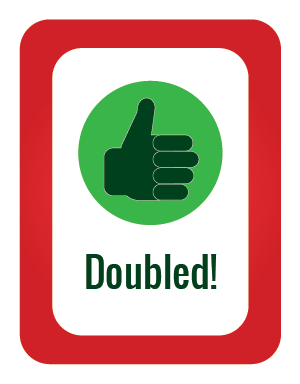
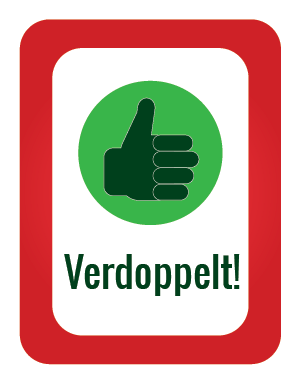
Production slot machine, Patient 0

Changed region(s): [[0.21, 0.6562, 0.81, 0.7812]]

diff --git a/cstcg_slot_functions.py b/cstcg_slot_functions.py
@@ -48,22 +48,22 @@ multiplier = [2,3,4,5,6,7,8,9,10]
 
 # Load instructions
 instructions = {}
-instructions['1'] = pygame.image.load('./images/Slide01.png').convert_alpha()
-instructions['2'] = pygame.image.load('./images/Slide02.png').convert_alpha()
-instructions['3'] = pygame.image.load('./images/Slide03.png').convert_alpha()
-instructions['4'] = pygame.image.load('./images/Slide04.png').convert_alpha()
-instructions['5'] = pygame.image.load('./images/Slide05.png').convert_alpha()
-instructions['6'] = pygame.image.load('./images/Slide06.png').convert_alpha()
-instructions['7'] = pygame.image.load('./images/Slide07.png').convert_alpha()
-instructions['8'] = pygame.image.load('./images/Slide08.png').convert_alpha()
-instructions['9'] = pygame.image.load('./images/Slide09.png').convert_alpha()
-instructions['10'] = pygame.image.load('./images/Slide10.png').convert_alpha()
-instructions['11'] = pygame.image.load('./images/Slide11.png').convert_alpha()
-instructions['12'] = pygame.image.load('./images/Slide12.png').convert_alpha()
-instructions['13'] = pygame.image.load('./images/Slide13.png').convert_alpha()
-instructions['14'] = pygame.image.load('./images/Slide14.png').convert_alpha()
-instructions['15'] = pygame.image.load('./images/Slide15.png').convert_alpha()
-instructions['16'] = pygame.image.load('./images/Slide16.png').convert_alpha()
+instructions['1'] = pygame.image.load('./instructions/Slide01.png').convert_alpha()
+instructions['2'] = pygame.image.load('./instructions/Slide02.png').convert_alpha()
+instructions['3'] = pygame.image.load('./instructions/Slide03.png').convert_alpha()
+instructions['4'] = pygame.image.load('./instructions/Slide04.png').convert_alpha()
+instructions['5'] = pygame.image.load('./instructions/Slide05.png').convert_alpha()
+instructions['6'] = pygame.image.load('./instructions/Slide06.png').convert_alpha()
+instructions['7'] = pygame.image.load('./instructions/Slide07.png').convert_alpha()
+instructions['8'] = pygame.image.load('./instructions/Slide08.png').convert_alpha()
+instructions['9'] = pygame.image.load('./instructions/Slide09.png').convert_alpha()
+instructions['10'] = pygame.image.load('./instructions/Slide10.png').convert_alpha()
+instructions['11'] = pygame.image.load('./instructions/Slide11.png').convert_alpha()
+instructions['12'] = pygame.image.load('./instructions/Slide12.png').convert_alpha()
+instructions['13'] = pygame.image.load('./instructions/Slide13.png').convert_alpha()
+instructions['14'] = pygame.image.load('./instructions/Slide14.png').convert_alpha()
+instructions['15'] = pygame.image.load('./instructions/Slide15.png').convert_alpha()
+instructions['16'] = pygame.image.load('./instructions/Slide16.png').convert_alpha()
 
 # Load symbols
 symbols = {}
@@ -173,16 +173,16 @@ def process_rtb(positions,index, stage, hold_on):
     return events
 
 def selector(c,task,positions,index,selector_pos):
-    sel_positions=[(100,445), # loss
-               (8,530), # orange
-               (8,608), # grape 
-               (8,679), # cherry 
-               (8,755), # lemon 
+    sel_positions=[(90,430), # loss
+               (8,500), # orange
+               (8,580), # grape 
+               (8,650), # cherry 
+               (8,730), # lemon 
                (8,800), # plum
-               (180,530), # bar 
-               (180,600), # bell 
-               (180,682), # watermelon
-               (180,755), # seven
+               (180,500), # bar 
+               (180,580), # bell 
+               (180,650),#watermelon
+               (180,730),#seven
                (180,800)] # jackpot
 
     pos = sel_positions[selector_pos-1]
@@ -317,7 +317,7 @@ def display_assets(c,positions,sizes,task):
     if task['currency'] == 'AUD':
         account_banner = c.header.render("Account (AUD)",True,GOLD) 
     elif task['currency'] == 'points':
-        account_banner = c.header.render("Account (points)",True,GOLD) 
+        account_banner = c.header.render("Kontostand (points)",True,GOLD) 
     c.screen.blit(account_banner, (positions['scoreboard_x'] + 10,positions['account_screen_y'] + 10))
     
     account_balance = money_font.render(str(task['account'][task['trial']]), True, RED)
@@ -358,7 +358,7 @@ def make_buttons(c,positions,sizes,task,trial_stage):
         caption="-", fgcolor=c.background_color, bgcolor=GRAY, font=big_button)
 
         buttons['pull'] = SlotButton(rect=(positions['pull_x'],positions['pull_y'], sizes['mbw'],sizes['bbh']),\
-        caption="Spin", fgcolor=c.background_color, bgcolor=GRAY, font=c.header)
+        caption="Drehen", fgcolor=c.background_color, bgcolor=GRAY, font=c.header)
 
 
         if task['wheel_hold_buttons']:
@@ -379,7 +379,7 @@ def make_buttons(c,positions,sizes,task,trial_stage):
         caption="-", fgcolor=c.background_color, bgcolor=GRAY, font=big_button)
 
         buttons['pull'] = SlotButton(rect=(positions['pull_x'],positions['pull_y'], sizes['mbw'],sizes['bbh']),\
-        caption="Spin", fgcolor=c.background_color, bgcolor=GRAY, font=c.header)
+        caption="Drehen", fgcolor=c.background_color, bgcolor=GRAY, font=c.header)
 
         if task['wheel_hold_buttons']:
             buttons['hold1'] = SlotButton(rect=(positions['hold1_x'],positions['hold_y'], sizes['sbw'],sizes['xsbh']),\
@@ -406,7 +406,7 @@ def make_buttons(c,positions,sizes,task,trial_stage):
         caption="-", fgcolor=c.background_color, bgcolor=GREEN, font=big_button)
 
         buttons['pull'] = SlotButton(rect=(positions['pull_x'],positions['pull_y'], sizes['mbw'],sizes['bbh']),\
-        caption="Spin", fgcolor=c.background_color, bgcolor=PURPLE, font=c.header)
+        caption="Drehen", fgcolor=c.background_color, bgcolor=PURPLE, font=c.header)
 
         if task['wheel_hold_buttons']:
             buttons['hold1'] = SlotButton(rect=(positions['hold1_x'],positions['hold_y'], sizes['sbw'],sizes['xsbh']),\
@@ -513,12 +513,12 @@ def welcome_screen(c, wait_time=3000):
 def instruction_screen(c,positions,sizes,RTB):
 
     back_button = SlotButton(rect=(positions['gamble_x'],positions['gamble_y'], sizes['bbw'],sizes['sbh']),\
-        caption="Back",  fgcolor=c.background_color, bgcolor=RED, font=c.button)
+        caption="Zurueck",  fgcolor=c.background_color, bgcolor=RED, font=c.button)
     next_button = SlotButton(rect=(positions['no_gamble_x'],positions['no_gamble_y'],sizes['bbw'],sizes['sbh']),\
-        caption="Next", fgcolor=c.background_color, bgcolor=GREEN, font=c.button)
+        caption="Weiter", fgcolor=c.background_color, bgcolor=GREEN, font=c.button)
 
     finish_button = SlotButton(rect=(positions['no_gamble_x'],positions['no_gamble_y'],sizes['bbw'],sizes['sbh']),\
-        caption="Finish", fgcolor=c.background_color, bgcolor=GREEN, font=c.button)
+        caption="Fertig", fgcolor=c.background_color, bgcolor=GREEN, font=c.button)
 
     counter = 1
     c.blank_screen()
@@ -562,20 +562,20 @@ def begin_training_screen(c):
     c.blank_screen()
     c.log('Training beginning at ' + repr(time.time()) + '\n')
 
-    c.text_screen('The next 20 trials are training trials. They will not count towards your final score.', font=c.header, font_color=GOLD, valign='center', y_displacement= -45, wait_time=4000) 
+    c.text_screen('Die naechsten 20 Spiele sind zum Ueben da. Die Punkte zaehlen nicht zu ihrem Endergebnis dazu.', font=c.header, font_color=GOLD, valign='center', y_displacement= -45, wait_time=4000) 
 
 def end_training_screen(c):
     waitfun(1000)
     c.log('Training end at ' + repr(time.time()) + '\n')
     c.blank_screen()
-    c.text_screen('Training is complete. The game will begin now! Good luck!', font=c.header, font_color=GOLD, valign='center', y_displacement= -45, wait_time=4000) 
+    c.text_screen('Das Training ist fertig. Das Spiel beginnt jetzt! Viel Glueck!', font=c.header, font_color=GOLD, valign='center', y_displacement= -45, wait_time=4000) 
 
 
 def change_machine_screen(c):
     waitfun(1000)
     c.log('Changing machines at ' + repr(time.time()) + '\n')
     c.blank_screen()
-    c.text_screen('Well done! Now onto a new machine!', font=c.header, font_color=GOLD, valign='center', y_displacement= -45, wait_time=4000) 
+    c.text_screen('Gut gemacht! Jetzt geht es weiter auf der naechsten Maschine!', font=c.header, font_color=GOLD, valign='center', y_displacement= -45, wait_time=4000) 
 
 
 def waitfun(milliseconds):
@@ -621,7 +621,7 @@ def win_screen(c,positions, buttons, sizes, task):
 def show_win_banner(c,positions,task,reward):
     c.screen.blit(win_banner,(positions['banner_x'],positions['banner_y'])) 
     winsound.play()
-    c.text_screen('You won ' + str(reward) + ' points!', font=c.title, valign='top', y_displacement= -45, wait_time=task['win_banner_interval'])
+    c.text_screen( str(reward) + ' points gewonnen!', font=c.title, valign='top', y_displacement= -45, wait_time=task['win_banner_interval'])
 
 
 def gamble(c,task, positions, sizes, RTB):
@@ -637,7 +637,7 @@ def gamble(c,task, positions, sizes, RTB):
     y_pos = c.center_y-card_back.get_height()/2
 
     c.blank_screen()
-    c.make_banner(c.title.render("Double or nothing?", True, GOLD))
+    c.make_banner(c.title.render("Doppelt oder nichts?", True, GOLD))
     c.screen.blit(card_back,(x_pos,y_pos))
 
     eeg_trigger(c,task,'gamble_screen')
@@ -647,7 +647,7 @@ def gamble(c,task, positions, sizes, RTB):
     gamble_button = SlotButton(rect=(positions['gamble_x'],positions['gamble_y'], sizes['bbw'],sizes['sbh']),\
         caption="Gamble",  fgcolor=c.background_color, bgcolor=RED, font=c.button)
     no_gamble_button = SlotButton(rect=(positions['no_gamble_x'],positions['no_gamble_y'],sizes['bbw'],sizes['sbh']),\
-        caption="No thanks.", fgcolor=c.background_color, bgcolor=GREEN, font=c.button)
+        caption="Nein danke.", fgcolor=c.background_color, bgcolor=GREEN, font=c.button)
 
     gamble_button.draw(c.screen)
     no_gamble_button.draw(c.screen)
@@ -737,13 +737,13 @@ def show_result(c,positions,buttons,task, spinning=False):
             eeg_trigger(c,task,'automatic_stop_1')
             c.screen.blit(machines[str(task['machine'])],(positions['machine']['base_x'],positions['machine']['base_y']))
             c.screen.blit(symbols[task['result_sequence'][task['trial']][1]],(positions['machine']['x1'],positions['machine']['y']))
-            pygame.display.flip()
-            waitfun(wait)
+            #pygame.display.flip()
+            #waitfun(wait)
 
             eeg_trigger(c,task,'automatic_stop_2')
             c.screen.blit(symbols[task['result_sequence'][task['trial']][2]],(positions['machine']['x2'],positions['machine']['y']))
-            pygame.display.flip()
-            waitfun(wait)
+            #pygame.display.flip()
+            #waitfun(wait)
 
             if task['result_sequence'][task['trial']][0] == '1':
                 eeg_trigger(c,task,'automatic_stop_3_win')

diff --git a/cstcg_slot_machine.py b/cstcg_slot_machine.py
@@ -11,12 +11,11 @@ from scipy.io import savemat
 import platform
 
 
-testing = False
+testing = True
+training = False
+
 response_box = True
-training = True
 currency = 'points'
-
-
 
 # Initialize response box:
 if response_box: 
@@ -55,32 +54,34 @@ matlab_output_file = c.create_output_file(subjectname)
 
 # Task trace:
 result_sequence = []
-wheel_hold_bool = [False, True]
+wheel_hold_bool = [True, True]
 block_order = []
 control_seq = []
 
 # Pull in training trials:
-with open ('./traces/taskBackend_training.txt','r') as f:
-        probability_trace = f.read().replace('\n', '')
-result_sequence = probability_trace.split(',')
+if training:
+    with open ('./traces/taskBackend_training.txt','r') as f:
+            probability_trace = f.read().replace('\n', '')
+    result_sequence = probability_trace.split(',')
 
-# Randomize blocks for real trials
-block_order = [1,2,3,4]
-random.shuffle(block_order)
+else:
+    # Randomize blocks for real trials
+    block_order = [1,2,3,4]
+    random.shuffle(block_order)
 
-for b in block_order:
-    with open ('./traces/taskBackend_' + str(b) + '.txt','r') as f:
-        probability_trace = f.read().replace('\n', '')
-    block_sequence = probability_trace.split(',')
-    if block_sequence[0] == 'CONTROL':
-        wheel_hold_bool.append(True)
-        control_seq.append(1)
-    elif block_sequence[0] == 'NOCONTROL':
-        wheel_hold_bool.append(False)
-        control_seq.append(0)
-    block_sequence = block_sequence[1:]
-    result_sequence = result_sequence + block_sequence
-    print "Block sequence: " + str(b)
+    for b in block_order:
+        with open ('./traces/taskBackend_' + str(b) + '.txt','r') as f:
+            probability_trace = f.read().replace('\n', '')
+        block_sequence = probability_trace.split(',')
+        if block_sequence[0] == 'CONTROL':
+            wheel_hold_bool.append(True)
+            control_seq.append(1)
+        elif block_sequence[0] == 'NOCONTROL':
+            wheel_hold_bool.append(False)
+            control_seq.append(0)
+        block_sequence = block_sequence[1:]
+        result_sequence = result_sequence + block_sequence
+        print "Block sequence: " + str(b)
 
 # Set trial switch specifications
 if testing:
@@ -230,7 +231,7 @@ for trial in range(START_TRIAL,NUM_TRIALS):
 
     # EEG: Guess on
     eeg_trigger(c,task,'guess_on')
-
+    pygame.event.clear()
     while not next_trial:  
         pygame.time.wait(20)
         key_press = RTB.read() 
@@ -306,7 +307,7 @@ for trial in range(START_TRIAL,NUM_TRIALS):
 
 savemat(matlab_output_file,task)
 background_music[3].stop()
-c.exit_screen("That ends the game! Thank you so much for playing! Goodbye!", font=c.title, font_color=GOLD)
+c.exit_screen("Das Slotmachinen Spiel fertig. Vielen Dank, dass Sie mitgemacht haben!", font=c.title, font_color=GOLD)
 
 
 

diff --git a/choice_task.py b/choice_task.py
@@ -25,6 +25,8 @@ class ChoiceTask():
     # screen_width = 900
     # screen_height = 600
     # screen = pygame.display.set_mode((screen_width,screen_height))
+    modes = pygame.display.list_modes()
+    screen = pygame.display.set_mode(modes[0],pygame.FULLSCREEN,16)
 
     center_x = screen_width/2
     left_x = screen_width/20
@@ -454,4 +456,7 @@ class ChoiceTask():
         self.text_screen(text=exit_text, font=self.header, font_color=font_color)
         pygame.display.update()
         self.game_over_sound.play()
+        self.wait_fun(milliseconds=30000)
+        self.log('Exiting game ' + repr(time.time()))
+        exit()
 
